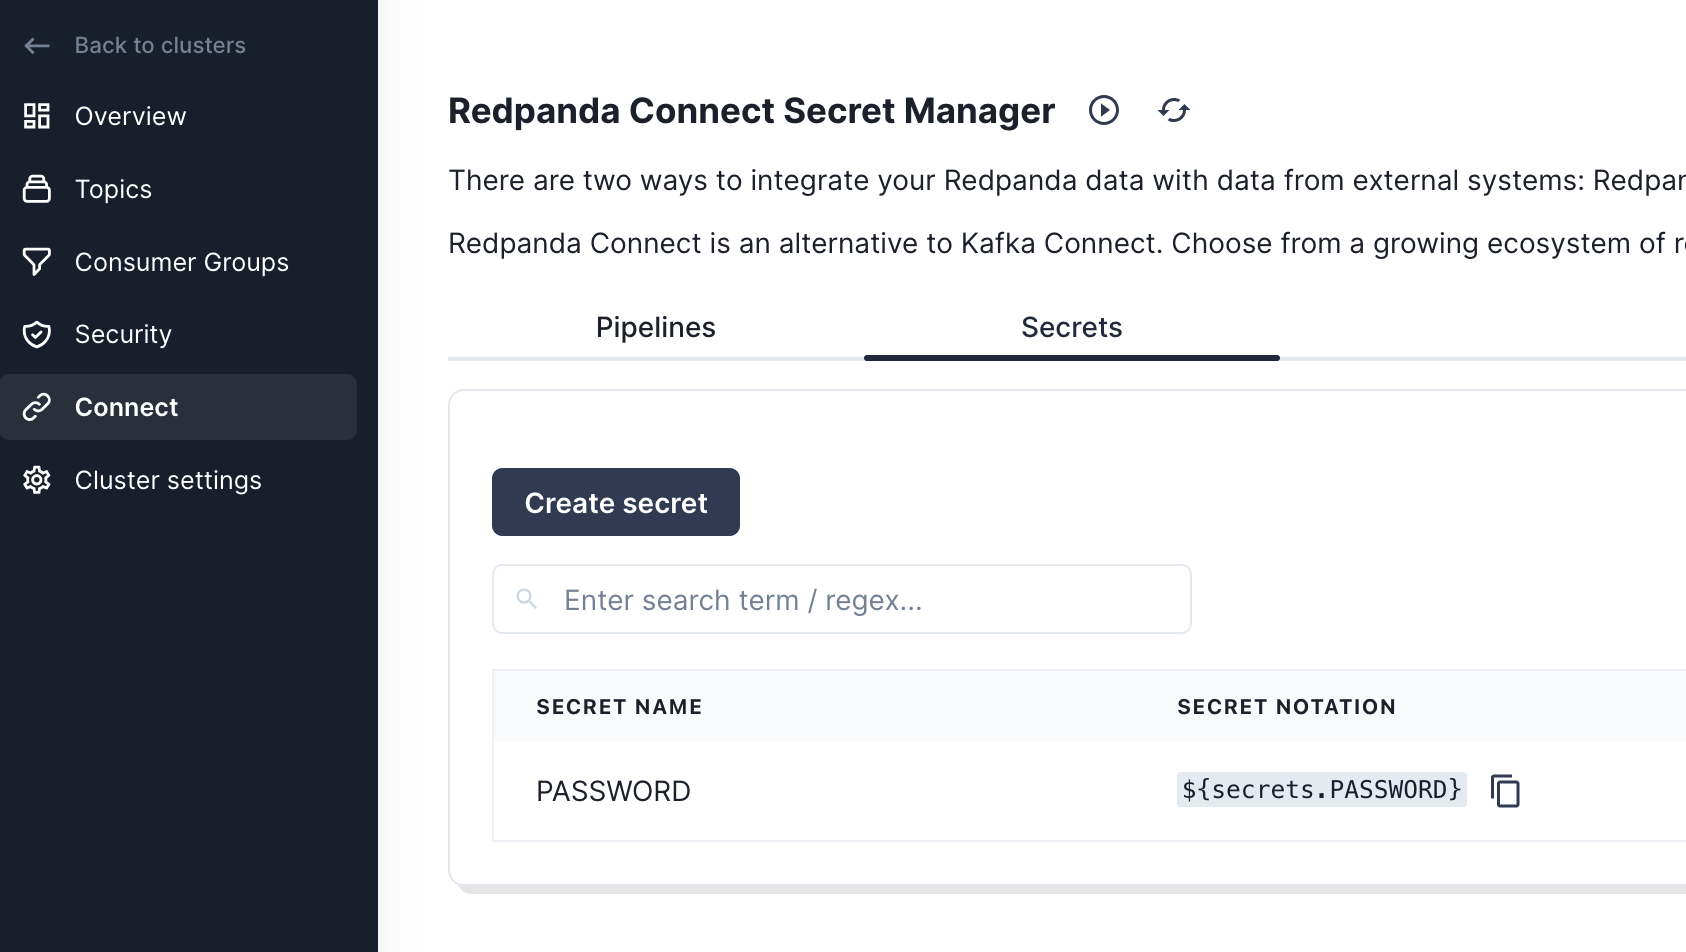
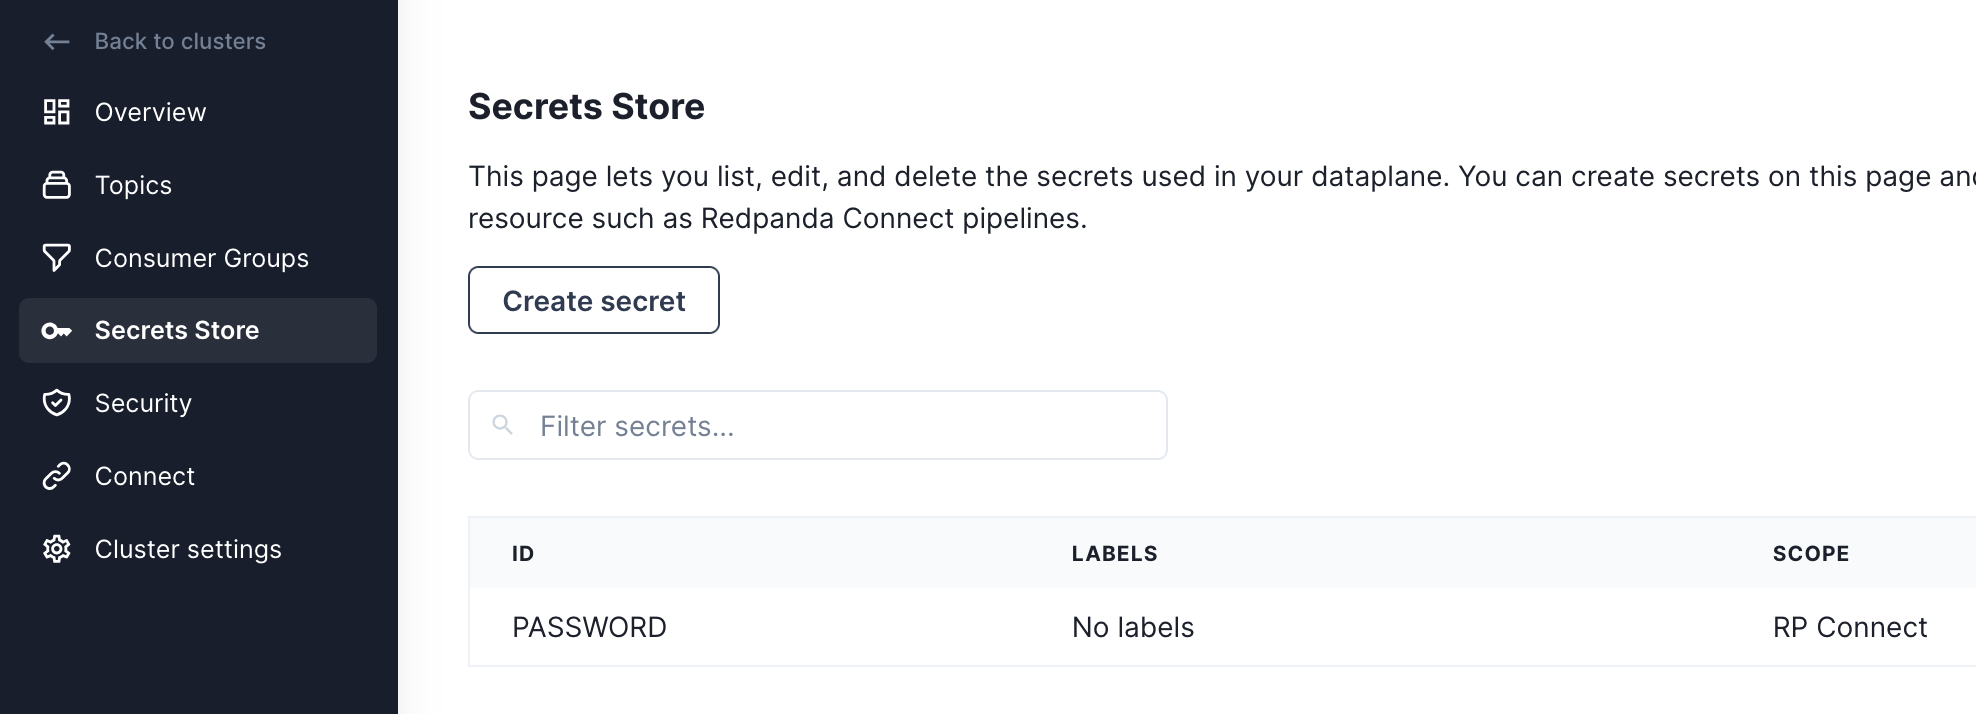
Update redpanda quickstart

diff --git a/site/sfguides/src/redpanda-connect-ingestion-with-snowpipe-streaming/redpanda-connect-ingestion-with-snowpipe-streaming.md b/site/sfguides/src/redpanda-connect-ingestion-with-snowpipe-streaming/redpanda-connect-ingestion-with-snowpipe-streaming.md
@@ -171,7 +171,7 @@ Next you'll need to create ACLs for the user to give it access to our cluster an
 ### Add password as secret in Redpanda Connect
 
 Before we start creating pipelines with Redpanda Connect, we're going to add the password for our `MyRedpandaUser` as a secret, so it can be used in pipelines without hardcoding the value inside
-the configuration file. First navigate to the Connect page, then click on the "Secrets" tab. Using the password for `MyRedpandaUser` created in the previous step, add that as a secret by clicking on the "Create secret" button.
+the configuration file. First navigate to the Secrets Store page, then click on the "Create secret" button. Using the password for `MyRedpandaUser` created in the previous step, add that as a secret by clicking on the "Create secret" button.
 
 ![](assets/create_secret.png)
 
@@ -242,7 +242,7 @@ tables, and altering the schema when new columns appear in the pipeline.
 ### Create a secret for the private key 
 
 Before we create the new pipeline, we'll need to add the private key we created in 
-step 2 as a secret for Redpanda Connect. Head to the Connect page and click on the "Secrets" tab,
+step 2 as a secret for Redpanda Connect. Head to the Secrets store page and click on the "Create secret" button,
 this time creating a secret called `SNOWFLAKE_KEY` with the entire contents of `rsa_key.p8`, replacing the
 newlines with escaped newlines. The following `awk` command can output the RSA key in the correct format to paste as a secret:
 
@@ -295,7 +295,7 @@ output:
       enabled: true
     max_in_flight: 1
     batching:
-      size_bytes: 50_000_000 # Collect 50MB of JSON data before flushing
+      byte_size: 50_000_000 # Collect 50MB of JSON data before flushing
       period: 120s # or after 120 seconds, which ever comes first
 ```
 
